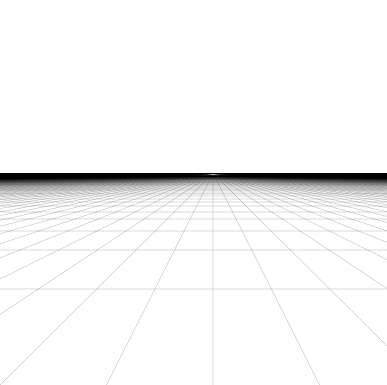
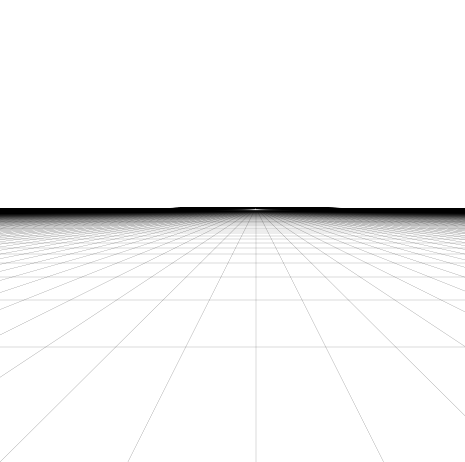
wip

diff --git a/articles/article2/figures.py b/articles/article2/figures.py
@@ -1,4 +1,5 @@
 import matplotlib.pyplot as plt
+from mpl_toolkits.mplot3d.art3d import Poly3DCollection
 import numpy as np
 import itertools
 import sys
@@ -25,29 +26,31 @@ def get_rotation_matrix(angles: tuple):
                      [sin_b * sin_c, sin_b * cos_c, cos_b]])
 
 def create_plot_with_grid_3d():
-    fig = plt.figure(figsize=(8, 8))
+    fig = plt.figure(figsize=(4, 4))
     ax = fig.add_subplot(111, projection='3d')
     ax.margins(0.05)
-    ax.set_xlim(-4, 4)
-    ax.set_ylim(-4, 4)
-    ax.set_zlim(-4, 4)
+    ax.set_xlim(-2, 2)
+    ax.set_ylim(0, 4)
+    ax.set_zlim(-1, 3)
     ax.set_xlabel('X')
-    ax.set_ylabel('Y')
-    ax.set_zlabel('Z')
-    major_ticks = [-4, 0, 4]
-    minor_ticks = [x for x in range(-4, 4)]
-    ax.set_xticks(major_ticks, minor=False)
-    ax.set_yticks(major_ticks, minor=False)
-    ax.set_zticks(major_ticks, minor=False)
-    ax.set_xticks(minor_ticks, minor=True)
-    ax.set_yticks(minor_ticks, minor=True)
-    ax.set_zticks(minor_ticks, minor=True)
+    ax.set_ylabel('Z')
+    ax.set_zlabel('Y')
+    ax.set_xticks([-2, 0, 2], minor=False)
+    ax.set_yticks([0, 2, 4], minor=False)
+    ax.set_zticks([-1, 1, 3], minor=False)
+    ax.set_xticks([x for x in range(-2, 2)], minor=True)
+    ax.set_yticks([x for x in range(0, 4)], minor=True)
+    ax.set_zticks([x for x in range(-1, 3)], minor=True)
 
     return fig, ax
 
 
+def draw_line(ax, p_a, p_b, *args, **kwargs):
+    ax.plot(*[[a, b] for a, b in zip(p_a, p_b)], *args, **kwargs)
+
+
 def figure1():
-    fig, ax = plt.subplots(figsize=(5, 5))
+    fig, ax = plt.subplots(figsize=(6, 6))
     ax.set_xlim(-5, 5)
     ax.set_ylim(-5, 5)
     #ax.get_xaxis().set_visible(False)
@@ -77,7 +80,11 @@ def figure1():
 
 
 def figure2():
+    def swap_zy(v):
+        return [v[0], v[2], v[1]]
+
     fig, ax = create_plot_with_grid_3d()
+    ax.axis("off")
 
     cube_vertices = np.array([[-1, -1, -1], [1, -1, -1], [1, 1, -1], [-1, 1, -1],
                               [-1, -1, 1], [1, -1, 1], [1, 1, 1], [-1, 1, 1]])
@@ -85,7 +92,7 @@ def figure2():
                   (4, 5), (5, 6), (6, 7), (7, 4),
                   (0, 4), (1, 5), (2, 6), (3, 7)]
     R = get_rotation_matrix((0, 30 * (math.pi / 180), 10 * (math.pi / 180)))
-    t = np.array([0, 0, 5])
+    t = np.array([0, 0, 3])
 
     K = np.array([[1, 0, 0], 
                   [0, 1, 0],
@@ -94,10 +101,32 @@ def figure2():
     world_cube_vertices = [np.dot(R, v) + t for v in cube_vertices]
     projected_points = [v / v[2] for v in world_cube_vertices]
 
-    for e_a, e_b in cube_edges:
-        ax.plot(*[[a, b] for a, b in zip(world_cube_vertices[e_a], world_cube_vertices[e_b])], linestyle='-', c="black", zorder=0)
+    world_cube_vertices = [swap_zy(v) for v in world_cube_vertices]
+    projected_points = [swap_zy(v) for v in projected_points]
 
-    ax.figure.savefig('./assets/Figure_2.png')
+    # draw cube edges
+    for e_a, e_b in cube_edges:
+        draw_line(ax, world_cube_vertices[e_a], world_cube_vertices[e_b], linestyle='-', c="black", zorder=1, linewidth=1.0)
+
+    # draw projection rays
+    for world_vertex, projected_vertex in zip(world_cube_vertices, projected_points):
+        draw_line(ax, world_vertex, projected_vertex, linestyle='--', c="gray", zorder=0, linewidth=0.4)
+
+    # draw cube edges on projection
+    for e_a, e_b in cube_edges:
+        draw_line(ax, projected_points[e_a], projected_points[e_b], linestyle='-', c="gray", zorder=1, linewidth=0.5)
+
+    # draw rays to center of projection
+    for projected_vertex in projected_points:
+        draw_line(ax, (0, 0, 0), projected_vertex, linestyle=':', c="gray", zorder=-1, linewidth=0.4)
+
+    plane_tri = [(-2, -2, 1), (2, -2, 1), (-2, 2, 1), (2, -2, 1), (2, 2, 1), (-2, 2, 1)]
+    plane_tri = [swap_zy(v) for v in plane_tri]
+    tri = Poly3DCollection(plane_tri, color='gray', linewidths=0, alpha=0.3)
+    ax.add_collection3d(tri)
+
+    ax.view_init(elev=12., azim=20.)
+    ax.figure.savefig('./assets/Figure_2.png', transparent = False, bbox_inches = 'tight', pad_inches = 0)
 
 
 figure1()

diff --git a/articles/article2/ru.md b/articles/article2/ru.md
@@ -100,11 +100,17 @@ $A \cdot \vec{h} = \vec{0}$
 /// Видео
 
 Как мы видим стало заметно лучше и искажения уже похожи на правду.  
-Соответствующий код для аффинных и перспективных искажений можно найти в тестах проекта - [sonar/tests/test_marker_transform](https://github.com/DistinctVision/sonar/tree/main/tests)
+Соответствующий код для аффинных и перспективных искажений можно найти в тестах проекта - [sonar/tests/test_marker_transform](https://github.com/DistinctVision/sonar/tree/article2/tests)
 
 ## Pinhole camera model
 
 Хорошо, мы получили матрицу, описывающую перевод координат углов маркера в координаты изображения кадра. Но непонятно, что с этой матрицей можно делать. Хотелось бы получить координаты камеры в пространстве, понять где находится камеры относительно наших мировых координат (которые тоже непонятно пока задавать). Сама по себе полученная матрица на эти вопросы не отвечает. А чтобы на эти вопросы все-таки ответить, построим математическую модель, которая будет описывать как точки мирового пространства проецируются на изображение камеры.  
 В качестве модели формирования изображения возьмем центральную проекцию. Суть центральной проекции состоит в том, что все точки, которые формируют выходное изображение, формируют лучи, сходящиеся в одной точке - центре проекции. Примерно так лучи себя и ведут в модели глаза или в цифровой камере.  
-Проецировать точки будем на плоскость, которая и будет формировать наше изображение. В качестве такой плоскости возьмем плоскость, параллельную оси $Z$, а от нуля сдвинем ее на единицу. Тогда получается, что все точки на этой плоскости имеет координату $z = 1$. При этом наша камера сонаправлена с осью $Z$.  
+Проецировать точки будем на плоскость, которая и будет формировать наше изображение. В качестве такой плоскости возьмем плоскость, параллельную оси $Z$, а от нуля сдвинем ее на единицу. Точки на этой плоскости имеют координату $z = 1$. При этом наша камера сонаправлена с осью $Z$.  
 Думаю станет понятнее, взглянув на картинку:  
+![Projection of cube](./assets/Figure_2.png)
+
+Зададим параметрически формулу луча, формирующего точку на проекции: $\vec{r} = \vec{v} \cdot t$, где $\vec{r}$ - координаты точки луча, $\vec{v}$ - координаты проецируемой точки, а $t$ - является свободным параметром и может принимать любые значения. Если луч уже не лежит на нашей плоскости и не параллелен ей, то он будет пересекать ее в одной точке. При этом мы знаем, что этой точки пересечения $r_z = 1$.  
+$r_z = v_z \cdot t \Rightarrow 1 = v_z \cdot t \Rightarrow t = \frac{1}{v_z}$  
+$\vec{r} = \vec{v} \cdot t = \vec{v} \cdot \frac{1}{v_z} = \begin{pmatrix} \frac{v_x}{v_z} & \frac{v_y}{v_z} & 1\end{pmatrix}$  
+Получается координаты спроецированной точки: $\vec{p} = \begin{pmatrix} \frac{v_x}{v_z} & \frac{v_y}{v_z} & 1\end{pmatrix}$. Ничего не напоминает? Это формула перевода из однородных координат в двумерные эвклидовы. Получается, что при таких параметрах плоскости проецирования, трехмерные координаты можно воспринимать как однородные координаты, соответствущие двумерным эвклидовым координатам на плоскости. А перевод из однородных координат в двумерные эвклидовы координаты выполняет центральную проекцию. Можно сказать, что трехмерные эвклидово пространство эквивалентно двумерному проекционному в данном случае.
